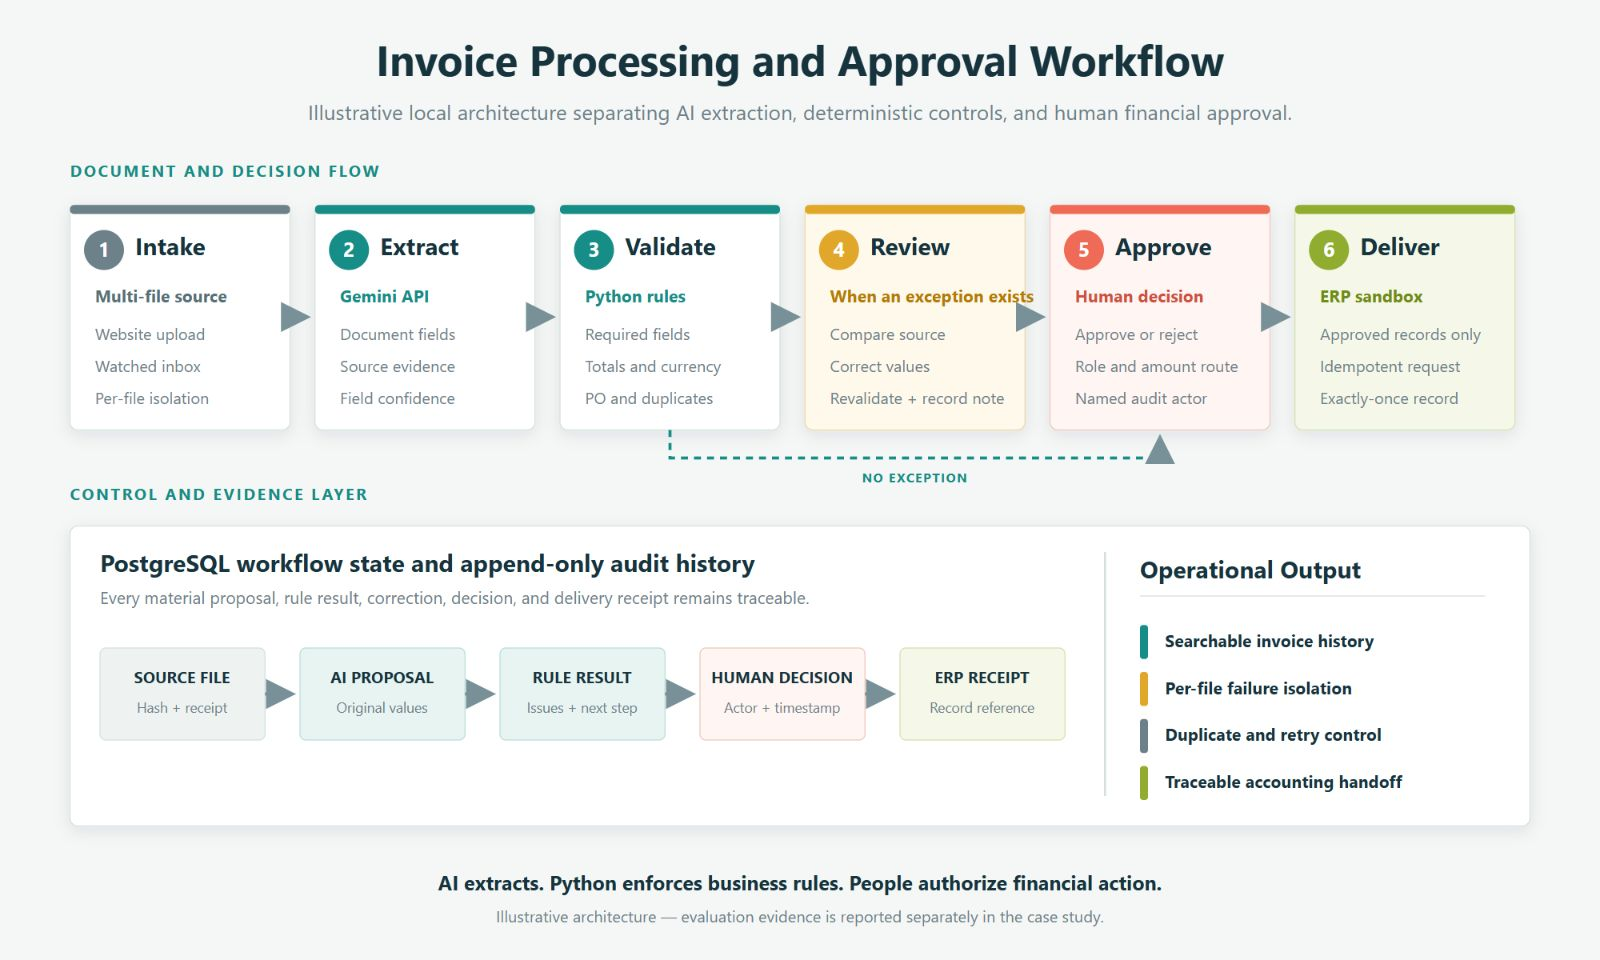
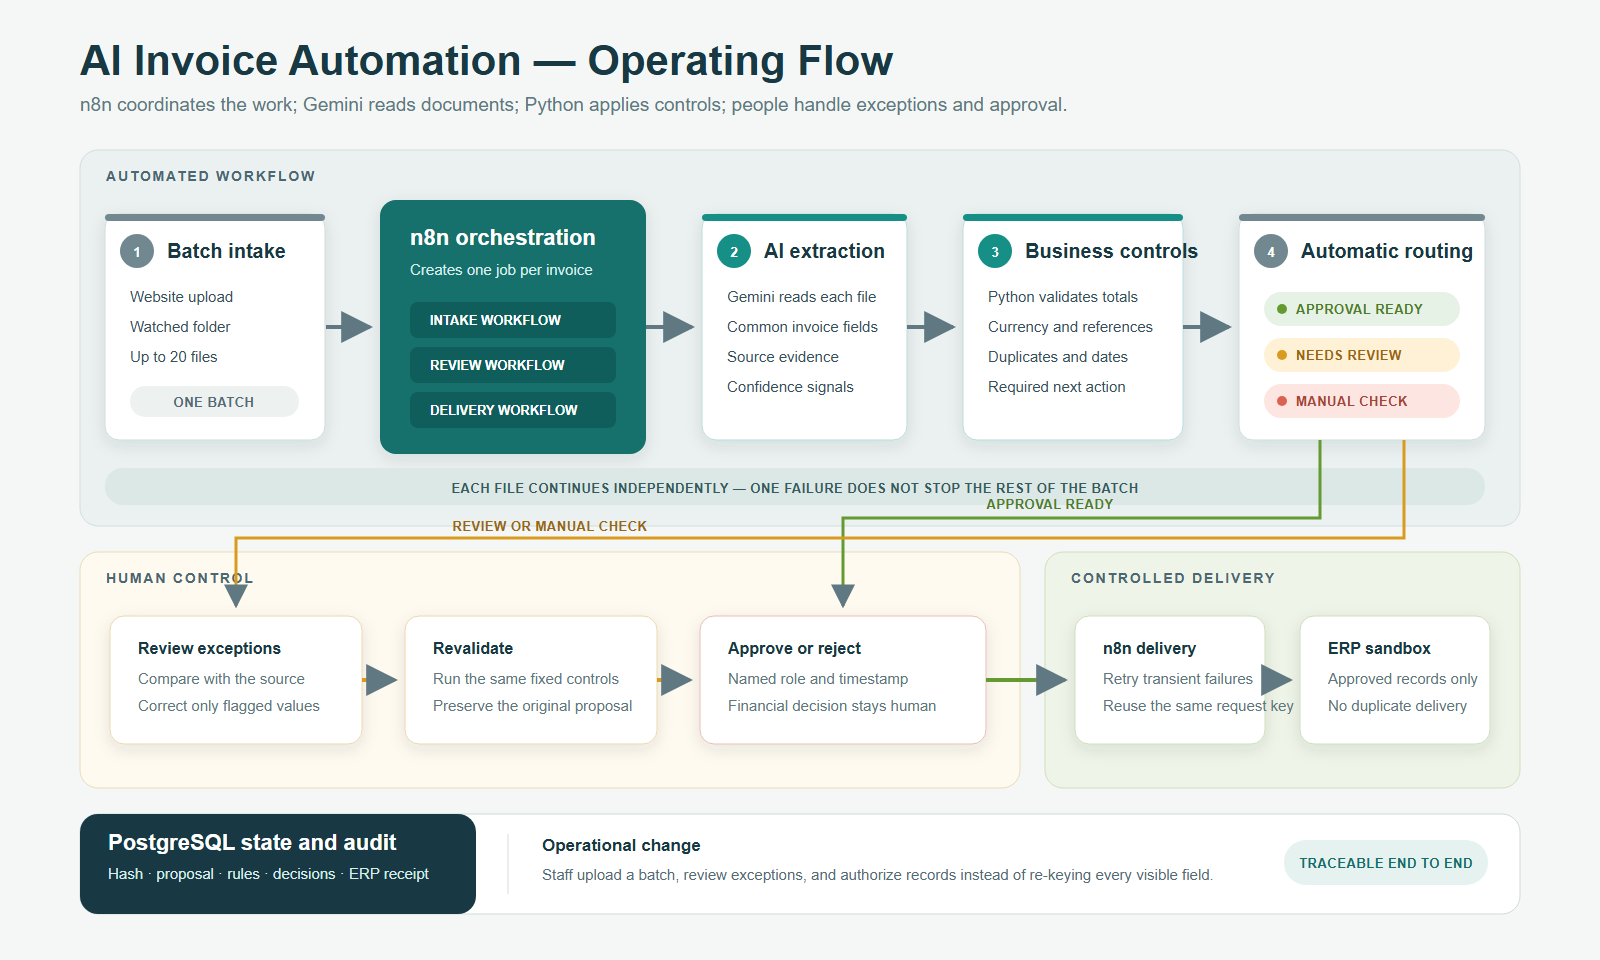
Refocus invoice case study on automation evidence

Changed region(s): [[0.0312, 0.1562, 0.9688, 0.9688], [0.0312, 0.0312, 0.8125, 0.125]]

diff --git a/index.html b/index.html
@@ -189,30 +189,30 @@
             <div class="content project-grid">
               <div class="project-copy">
                 <div class="project-kicker"><span>01</span><p>AI automation &amp; document intelligence | n8n, Python, Gemini, PostgreSQL</p></div>
-                <h3>AI Invoice Approval Automation with Human-Controlled ERP Handoff</h3>
+                <h3>End-to-End AI Invoice Approval Automation</h3>
                 <dl class="case-details">
-                  <div><dt>Problem</dt><dd>Invoice teams repeatedly copy data from visually different documents, while uncertain extraction, duplicates, invalid references, and retries can create financial-control risk.</dd></div>
-                  <div><dt>My Contribution</dt><dd>Designed and implemented the end-to-end workflow: multi-file intake, Gemini extraction, canonical invoice schema, deterministic validation, PostgreSQL state and audit history, FastAPI services, three n8n workflows, human review and approval, an idempotent ERP sandbox, evaluation corpora, and automated tests.</dd></div>
-                  <div><dt>Approach</dt><dd>Each file is processed independently so one failure does not stop the batch. Gemini proposes document values; Python validates file integrity, confidence, references, currency, arithmetic, purchase-order rules, and ambiguous dates; people retain control of corrections and approval before ERP delivery.</dd></div>
-                  <div><dt>Validation</dt><dd>The controlled benchmark contains 10 synthetic invoices whose correct answers were fixed before testing. Across them, the evaluator checked 278 field values; all matched after normalization, so every invoice was a complete match. The system also selected the expected next step for all 10 invoices: approval-ready or manual review.</dd></div>
+                  <div><dt>Problem</dt><dd>Finance teams repeatedly read and re-key fields from visually different invoice files, then check totals, references, duplicates, and approval requirements before data can reach accounting.</dd></div>
+                  <div><dt>My Contribution</dt><dd>Designed and built the complete workflow: multi-file intake, three n8n automations, Gemini document extraction, Python business controls, PostgreSQL state and audit history, human review and approval, and idempotent delivery to an ERP sandbox.</dd></div>
+                  <div><dt>Approach</dt><dd>Users can upload up to 20 invoices in one batch. n8n creates one job per file, starts extraction and validation, and automatically routes approval-ready, review, and unreadable outcomes. A failed file remains isolated, while approved records continue through a retry-safe accounting handoff.</dd></div>
+                  <div><dt>Validation</dt><dd>Robustness was explored with 20 public internet-sourced invoice examples covering different layouts, languages, currencies, and document purposes. The reviewed partial run contains 16 genuine Gemini outputs; 15 captured a useful value from the visible final-total area. The collection remains unscored until all documents have reviewed ground truth and one clean rerun.</dd></div>
                 </dl>
               </div>
               <div class="project-result-column">
                 <figure class="project-visual">
-                  <a class="project-image-link" href="assets/projects/ai-invoice-automation.png?v=20260805b" target="_blank" rel="noopener noreferrer" aria-label="Open the invoice processing and approval workflow at full size">
-                    <img src="assets/projects/ai-invoice-automation.png?v=20260805b" alt="Invoice processing workflow from multi-file intake through Gemini extraction, Python validation, exception review, human approval, ERP sandbox delivery, and PostgreSQL audit evidence" width="1600" height="960" decoding="async">
+                  <a class="project-image-link" href="assets/projects/ai-invoice-automation.png?v=20260805c" target="_blank" rel="noopener noreferrer" aria-label="Open the AI invoice automation operating flow at full size">
+                    <img src="assets/projects/ai-invoice-automation.png?v=20260805c" alt="AI invoice automation swimlane showing batch intake, three n8n workflows, Gemini extraction, Python controls, automatic routing, human review and approval, ERP delivery, and PostgreSQL audit state" width="1600" height="960" decoding="async">
                   </a>
-                  <figcaption>Illustrative workflow showing where AI assists and where rules, people, and audit records remain in control.</figcaption>
+                  <figcaption>Operational flow showing what n8n automates, which documents need human attention, and how approved records reach accounting safely.</figcaption>
                 </figure>
-                <p class="metric-context"><strong>Controlled Evaluation</strong><span>278 is the total number of field-by-field comparisons across these 10 test invoices—not the number of invoices.</span></p>
-                <div class="metric-row" aria-label="AI invoice automation final controlled evaluation">
-                  <div><strong>10</strong><span>Controlled Test Invoices</span></div>
-                  <div><strong>278/278</strong><span>Field Checks Matched</span></div>
-                  <div><strong>10/10</strong><span>Correct Next Steps</span></div>
+                <p class="metric-context"><strong>Public-Document Exploration</strong><span>These figures describe the reviewed internet-invoice run and the implemented upload capacity; they are not an overall accuracy score.</span></p>
+                <div class="metric-row" aria-label="AI invoice automation public-document exploration and batch capacity">
+                  <div><strong>20</strong><span>Public Invoice Examples</span></div>
+                  <div><strong>15/16</strong><span>Useful Final Total Captured</span></div>
+                  <div><strong>20 files</strong><span>Maximum Upload Batch</span></div>
                 </div>
-                <p class="project-output"><strong>Operational Result</strong><span>Users can submit several invoices at once, focus attention on exceptions, approve controlled records, trace every state change, and deliver approved data exactly once to the accounting sandbox without manually re-entering each document.</span></p>
-                <p class="project-interpretation"><strong>Public Robustness Exploration</strong><span>A separate set of 20 internet-sourced invoices tests layouts, languages, currencies, receipts, and other documents not designed for this system. It is deliberately unscored until every document has reviewed ground truth and one clean provider rerun.</span></p>
-                <p class="project-note"><strong>Evidence Boundary</strong><span>The headline scores apply only to the controlled 10-invoice benchmark. They do not estimate universal or production accuracy, throughput, availability, or business time savings. The repository preserves the ground truth, checksums, evaluation reports, public-source records, automated tests, and reproducible Docker workflow.</span></p>
+                <p class="project-output"><strong>Operational Result</strong><span>The workflow moves finance work from re-keying every visible field to uploading a batch, reviewing extracted values, resolving exceptions, and authorizing the final handoff. Each invoice is processed independently, so one unreadable document does not stop the remaining batch.</span></p>
+                <p class="project-interpretation"><strong>Automation Delivered</strong><span>n8n coordinates intake, review, notifications, approval, and retry-safe ERP delivery; Gemini proposes document values; Python enforces fixed controls; PostgreSQL preserves duplicate protection, workflow state, and an end-to-end audit trail.</span></p>
+                <p class="project-note"><strong>Evidence Boundary</strong><span>The 15/16 result measures only useful final-total capture in the reviewed public outputs—not full-document accuracy. Four other files exposed a persistence defect that has been fixed but still requires a clean provider rerun. No percentage time-saving claim is made because a manual-entry baseline has not yet been measured.</span></p>
                 <div class="project-links">
                   <a class="text-link" href="https://github.com/mthufailsamas/ai-invoice-approval-automation" target="_blank" rel="noopener noreferrer">View repository <span aria-hidden="true">&#8599;</span></a>
                 </div>
